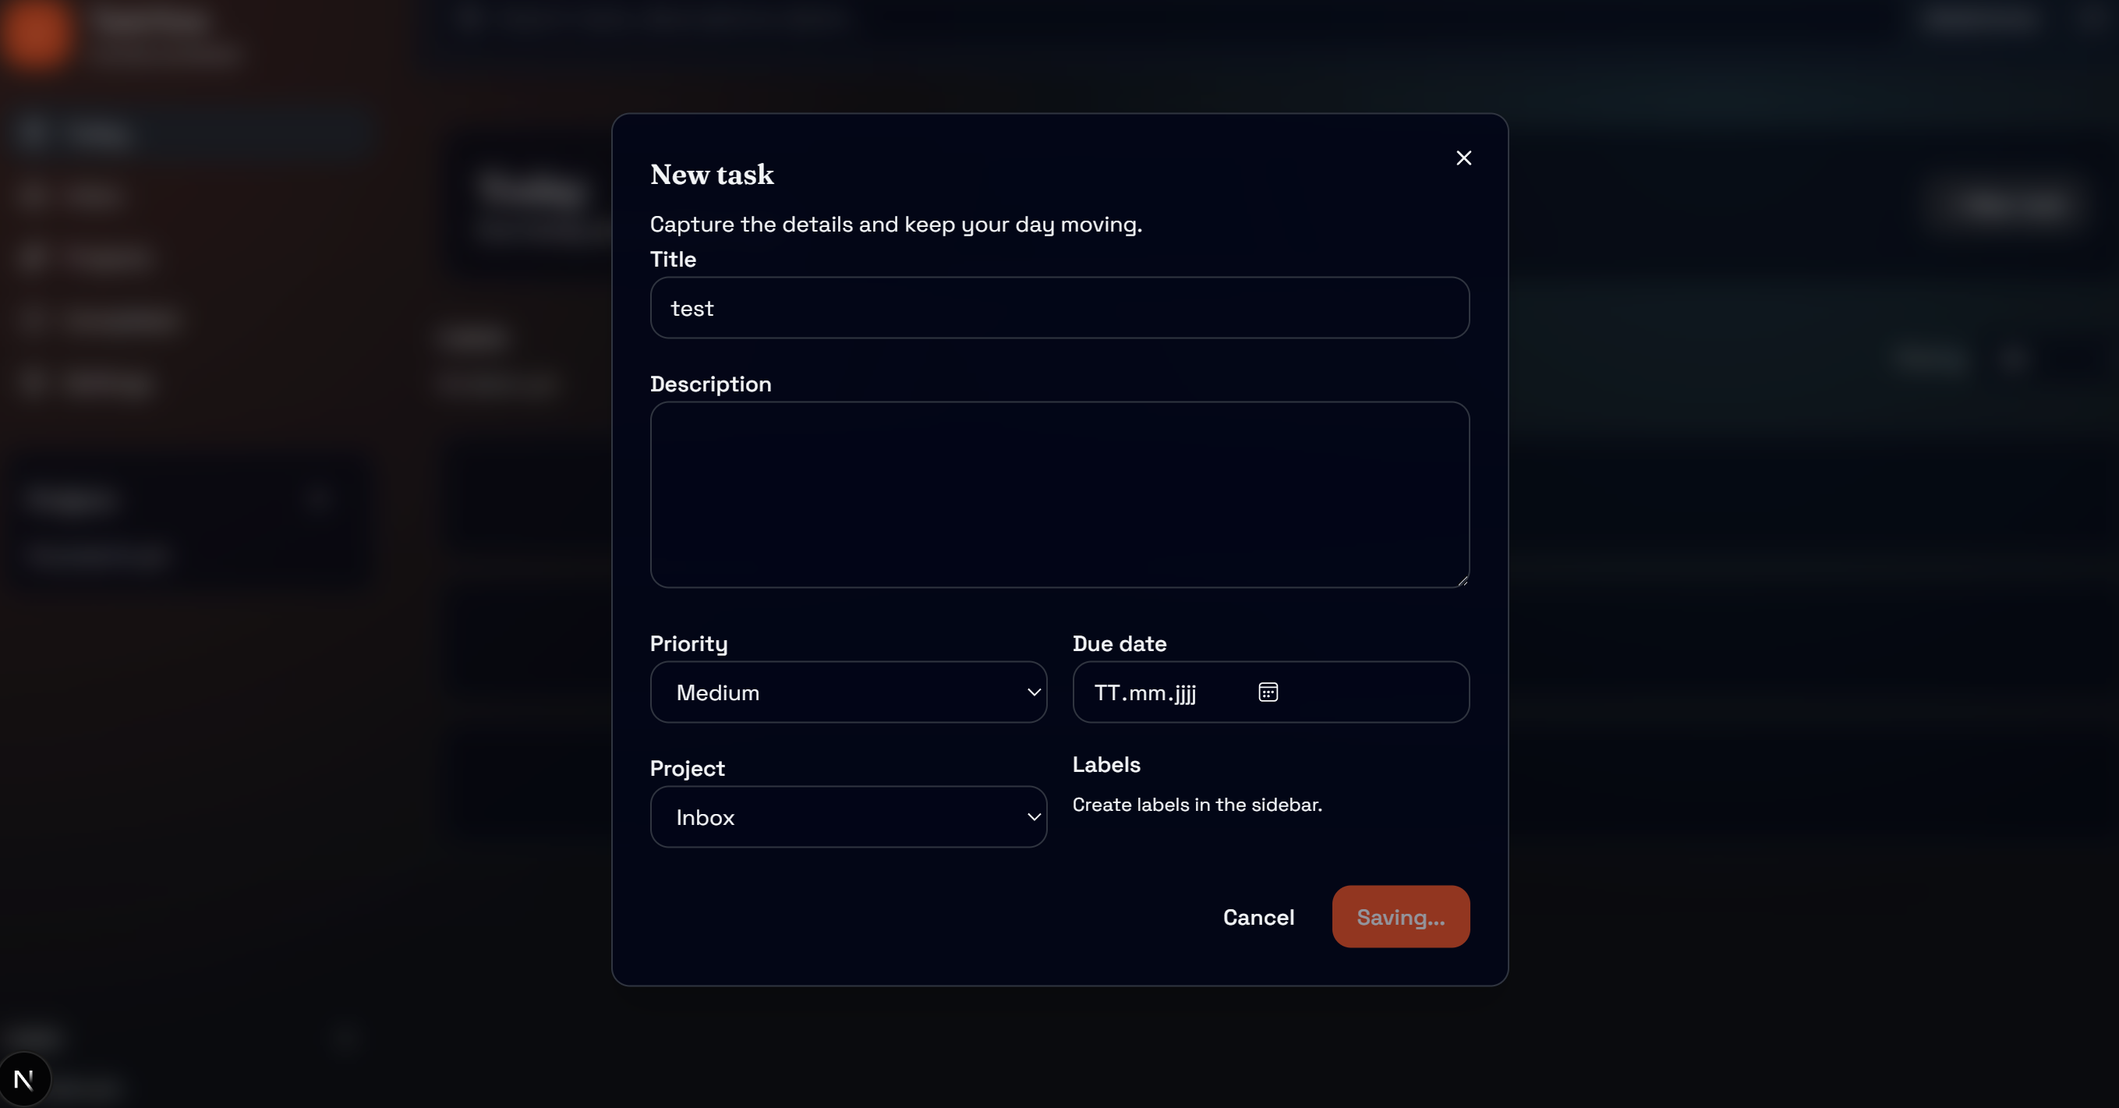
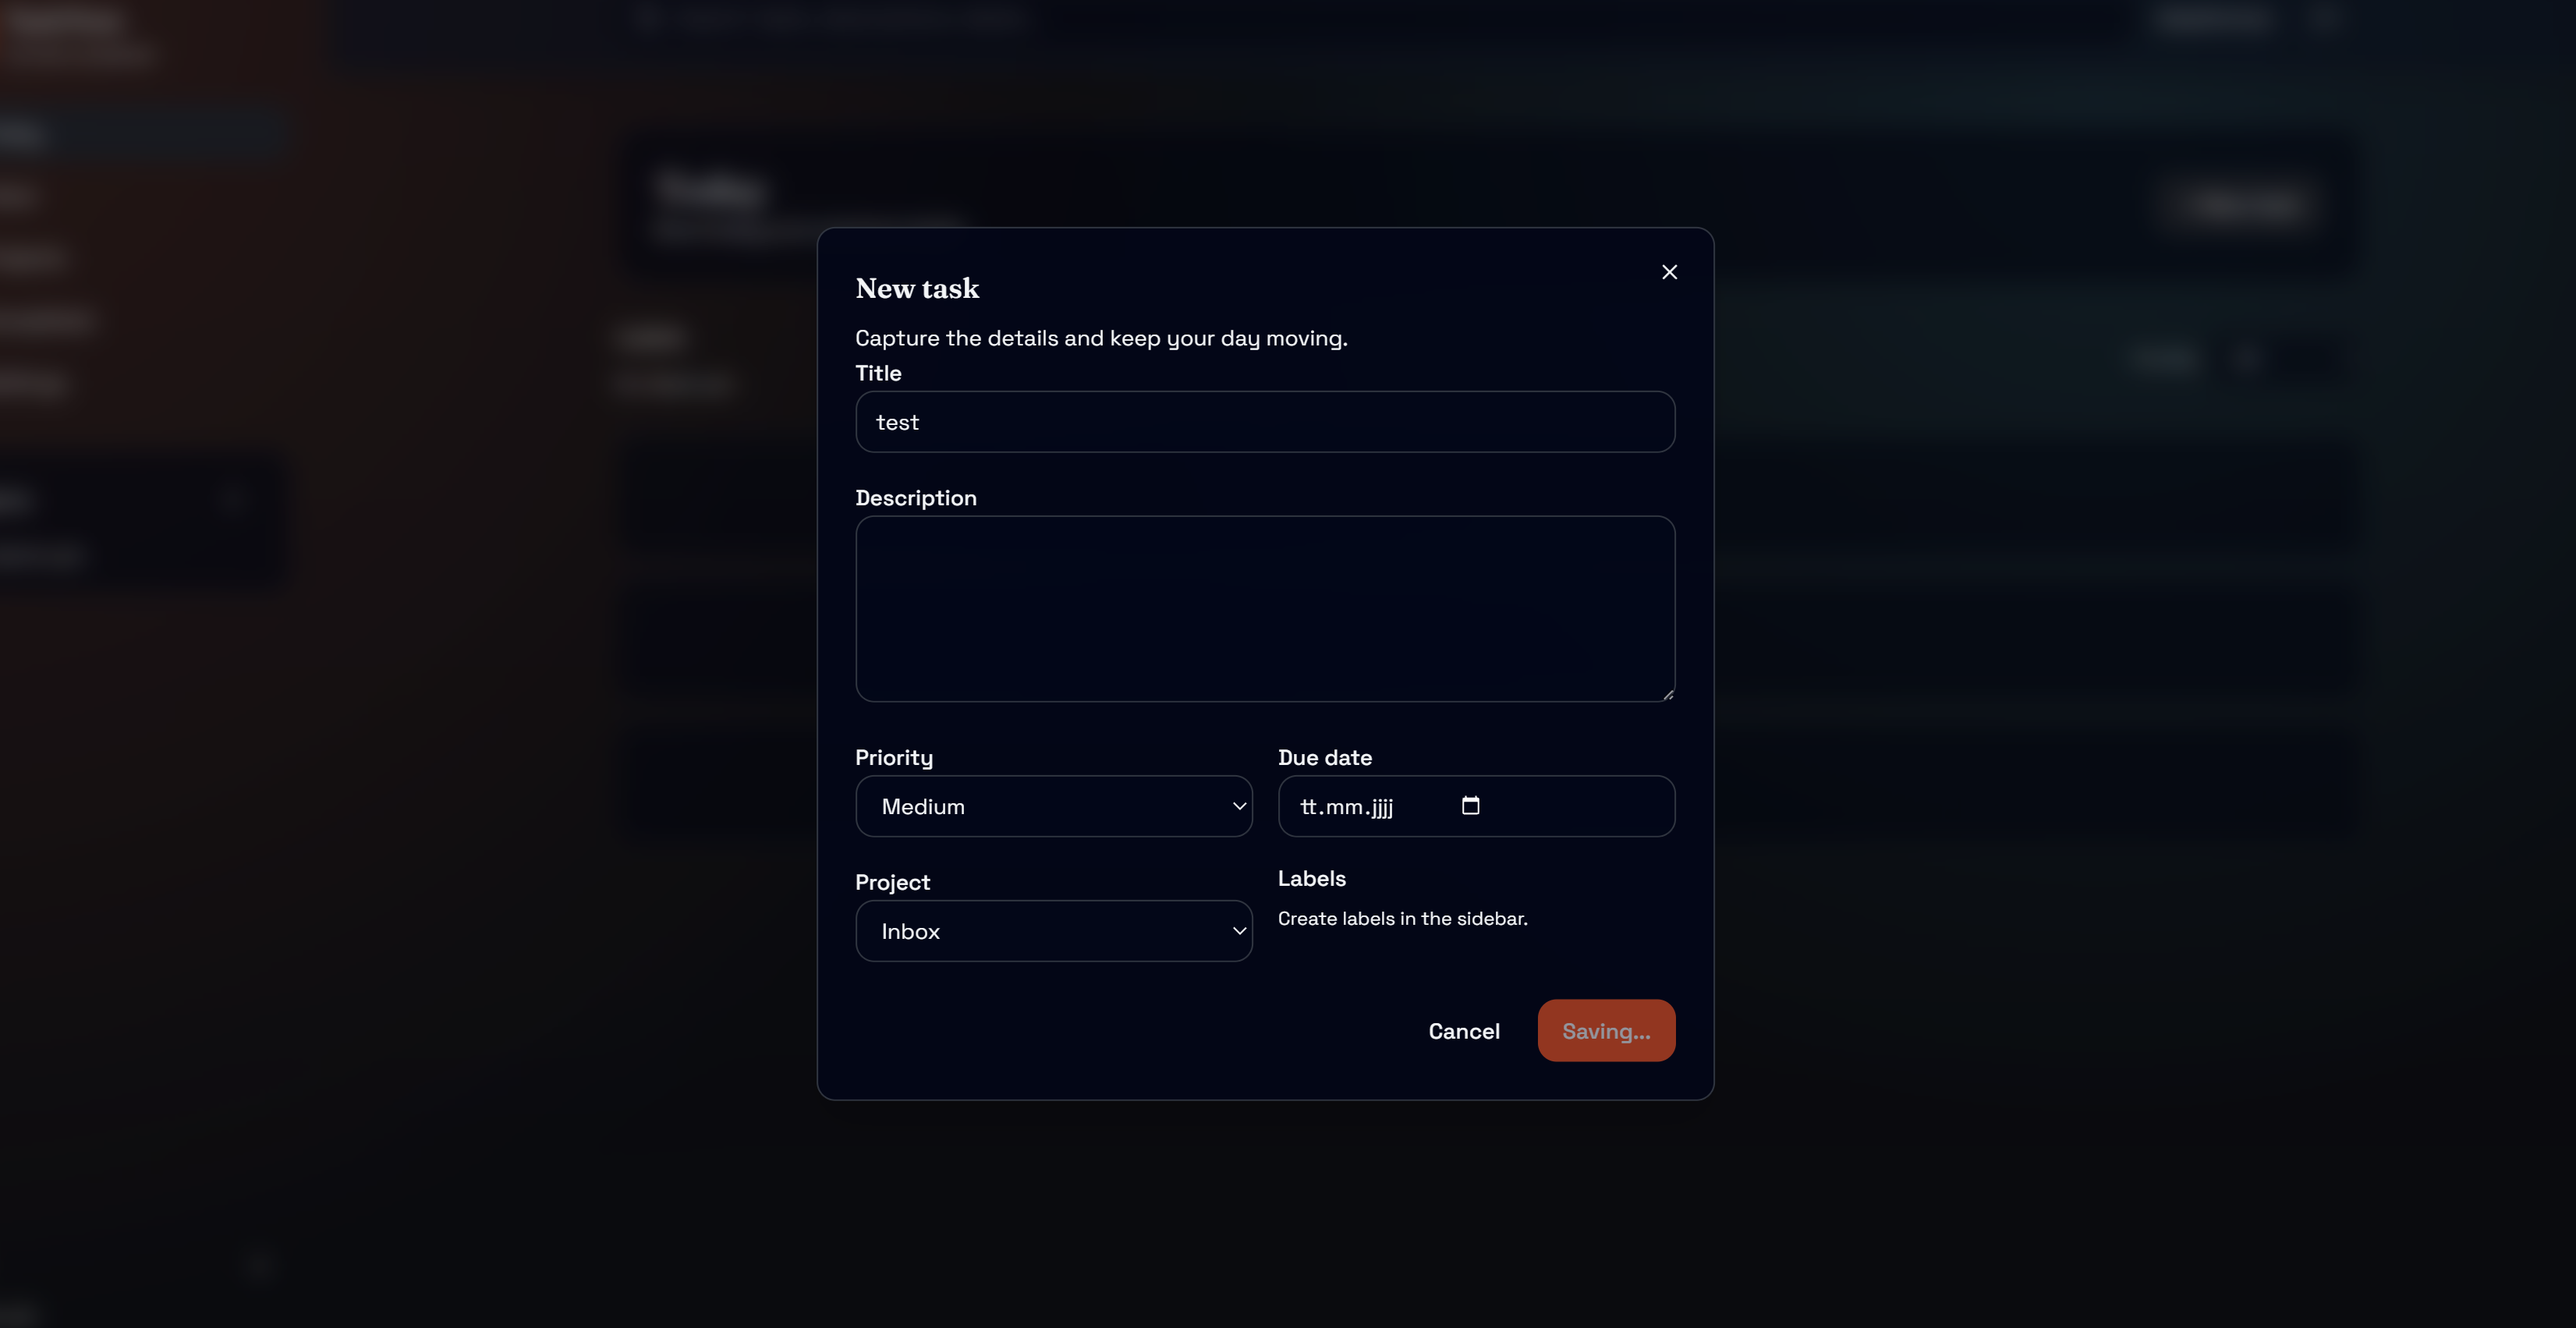
feat: refresh Convex access token when missing to prevent hanging mutations

diff --git a/src/components/AppProviders.tsx b/src/components/AppProviders.tsx
@@ -10,8 +10,9 @@ function useConvexAuth() {
   const { data: session, status, update } = useSession();
   const fetchAccessToken = React.useCallback(
     async ({ forceRefreshToken }: { forceRefreshToken?: boolean } = {}) => {
-      if (forceRefreshToken) {
-        await update();
+      if (forceRefreshToken || (session?.userId && !session?.convexToken)) {
+        const refreshed = await update();
+        return refreshed?.convexToken ?? null;
       }
       return session?.convexToken ?? null;
     },

diff --git a/memory/tasks/TASK005-fix-convex-token-refresh-hang.md b/memory/tasks/TASK005-fix-convex-token-refresh-hang.md
@@ -1,0 +1,37 @@
+# TASK005 - Fix Convex Token Refresh Hang
+
+**Status:** Completed  
+**Added:** 2026-01-16  
+**Updated:** 2026-01-16
+
+## Original Request
+
+"the button to create doesnt seem to actually do anything - convex doesnt log any function calls"
+
+## Thought Process
+
+The UI submits and flips to "Saving..." but no Convex calls appear, suggesting the client is waiting on an auth token. If the session has a userId but no `convexToken`, Convex can stall while awaiting a token. Refresh the session token when missing so mutations can proceed or fail fast with a clear error.
+
+## Implementation Plan
+
+- **Red**: Not required; change is a small auth hook update.
+- **Green**: Refresh the session token in `fetchAccessToken` when missing.
+- **Refactor**: Keep minimal diff; verify lint/format/tests.
+
+## Progress Tracking
+
+**Overall Status:** Completed - 100%
+
+### Subtasks
+
+| ID  | Description                                  | Status   | Updated    | Notes                    |
+| --- | -------------------------------------------- | -------- | ---------- | ------------------------ |
+| 1.1 | Refresh session in Convex auth token fetcher | Complete | 2026-01-16 | Updated `AppProviders`   |
+| 1.2 | Run lint/format/tests                        | Complete | 2026-01-16 | `lint`, `format`, `test` |
+
+## Progress Log
+
+### 2026-01-16
+
+- Updated `fetchAccessToken` to refresh session when `convexToken` is missing.
+- Ran `npm run lint`, `npm run format`, and `npm run test`.

diff --git a/memory/activeContext.md b/memory/activeContext.md
@@ -4,16 +4,17 @@
 
 ## Current Focus
 
-- Confirm Vercel auth works after normalizing `CONVEX_AUTH_PRIVATE_KEY`
+- Validate Convex mutations succeed after session token refresh fix
 
 ## Recent Changes
 
 - Added normalization helper for `CONVEX_AUTH_PRIVATE_KEY` and tests.
 - Updated README guidance for Vercel env formatting.
+- Refresh Convex access token when missing in `AppProviders`.
 
 ## Next Steps
 
-- Run a fresh Vercel deploy and validate the auth flow end-to-end.
+- Re-test create-task mutation locally and in Vercel after deploy.
 
 ## Notes
 

diff --git a/memory/progress.md b/memory/progress.md
@@ -36,3 +36,4 @@
 - Removed build-time codegen, tracked `src/convex/_generated`, and ran lint/format.
 - Added normalization helper and tests for Convex auth private key formatting.
 - Documented Vercel env formatting guidance for auth private key.
+- Refreshed Convex access token when missing to prevent hanging mutations.

diff --git a/memory/tasks/_index.md b/memory/tasks/_index.md
@@ -15,3 +15,4 @@
 - [TASK001] Backfill memory bank - Completed on 2026-01-15
 - [TASK003] Fix Vercel Convex codegen build - Completed on 2026-01-16
 - [TASK004] Fix Vercel auth PKCS#8 key parsing - Completed on 2026-01-16
+- [TASK005] Fix Convex token refresh hang - Completed on 2026-01-16
